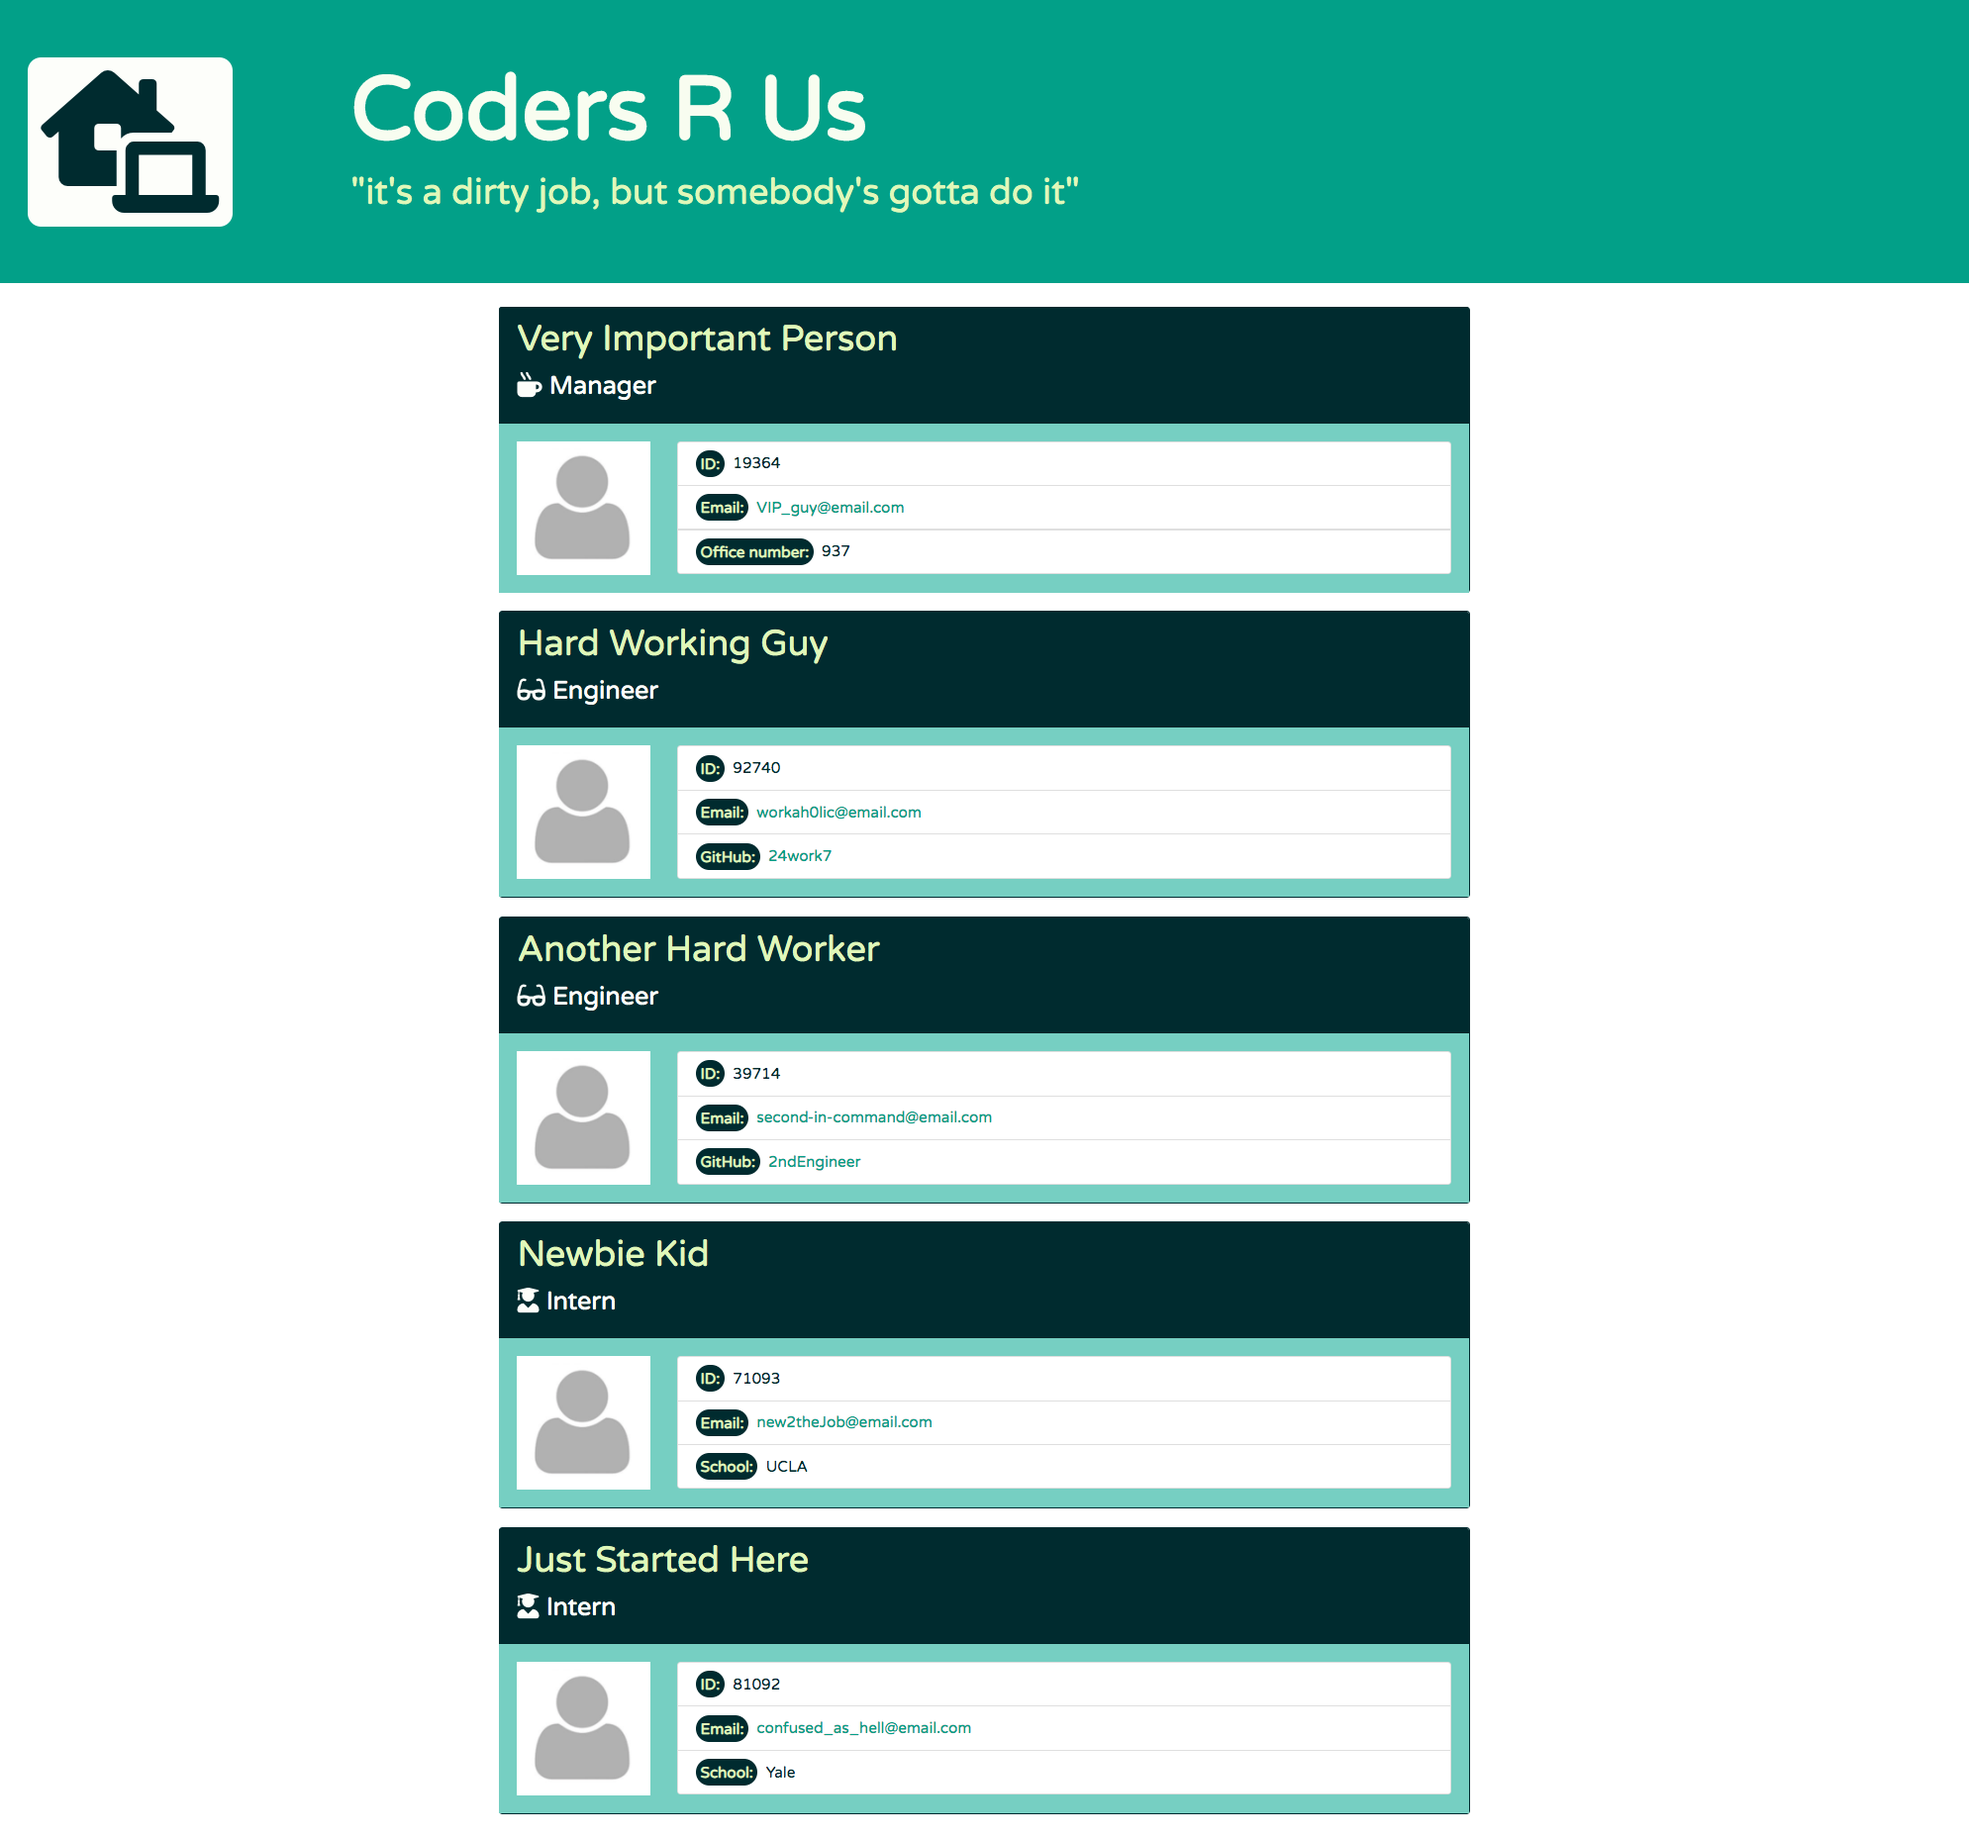
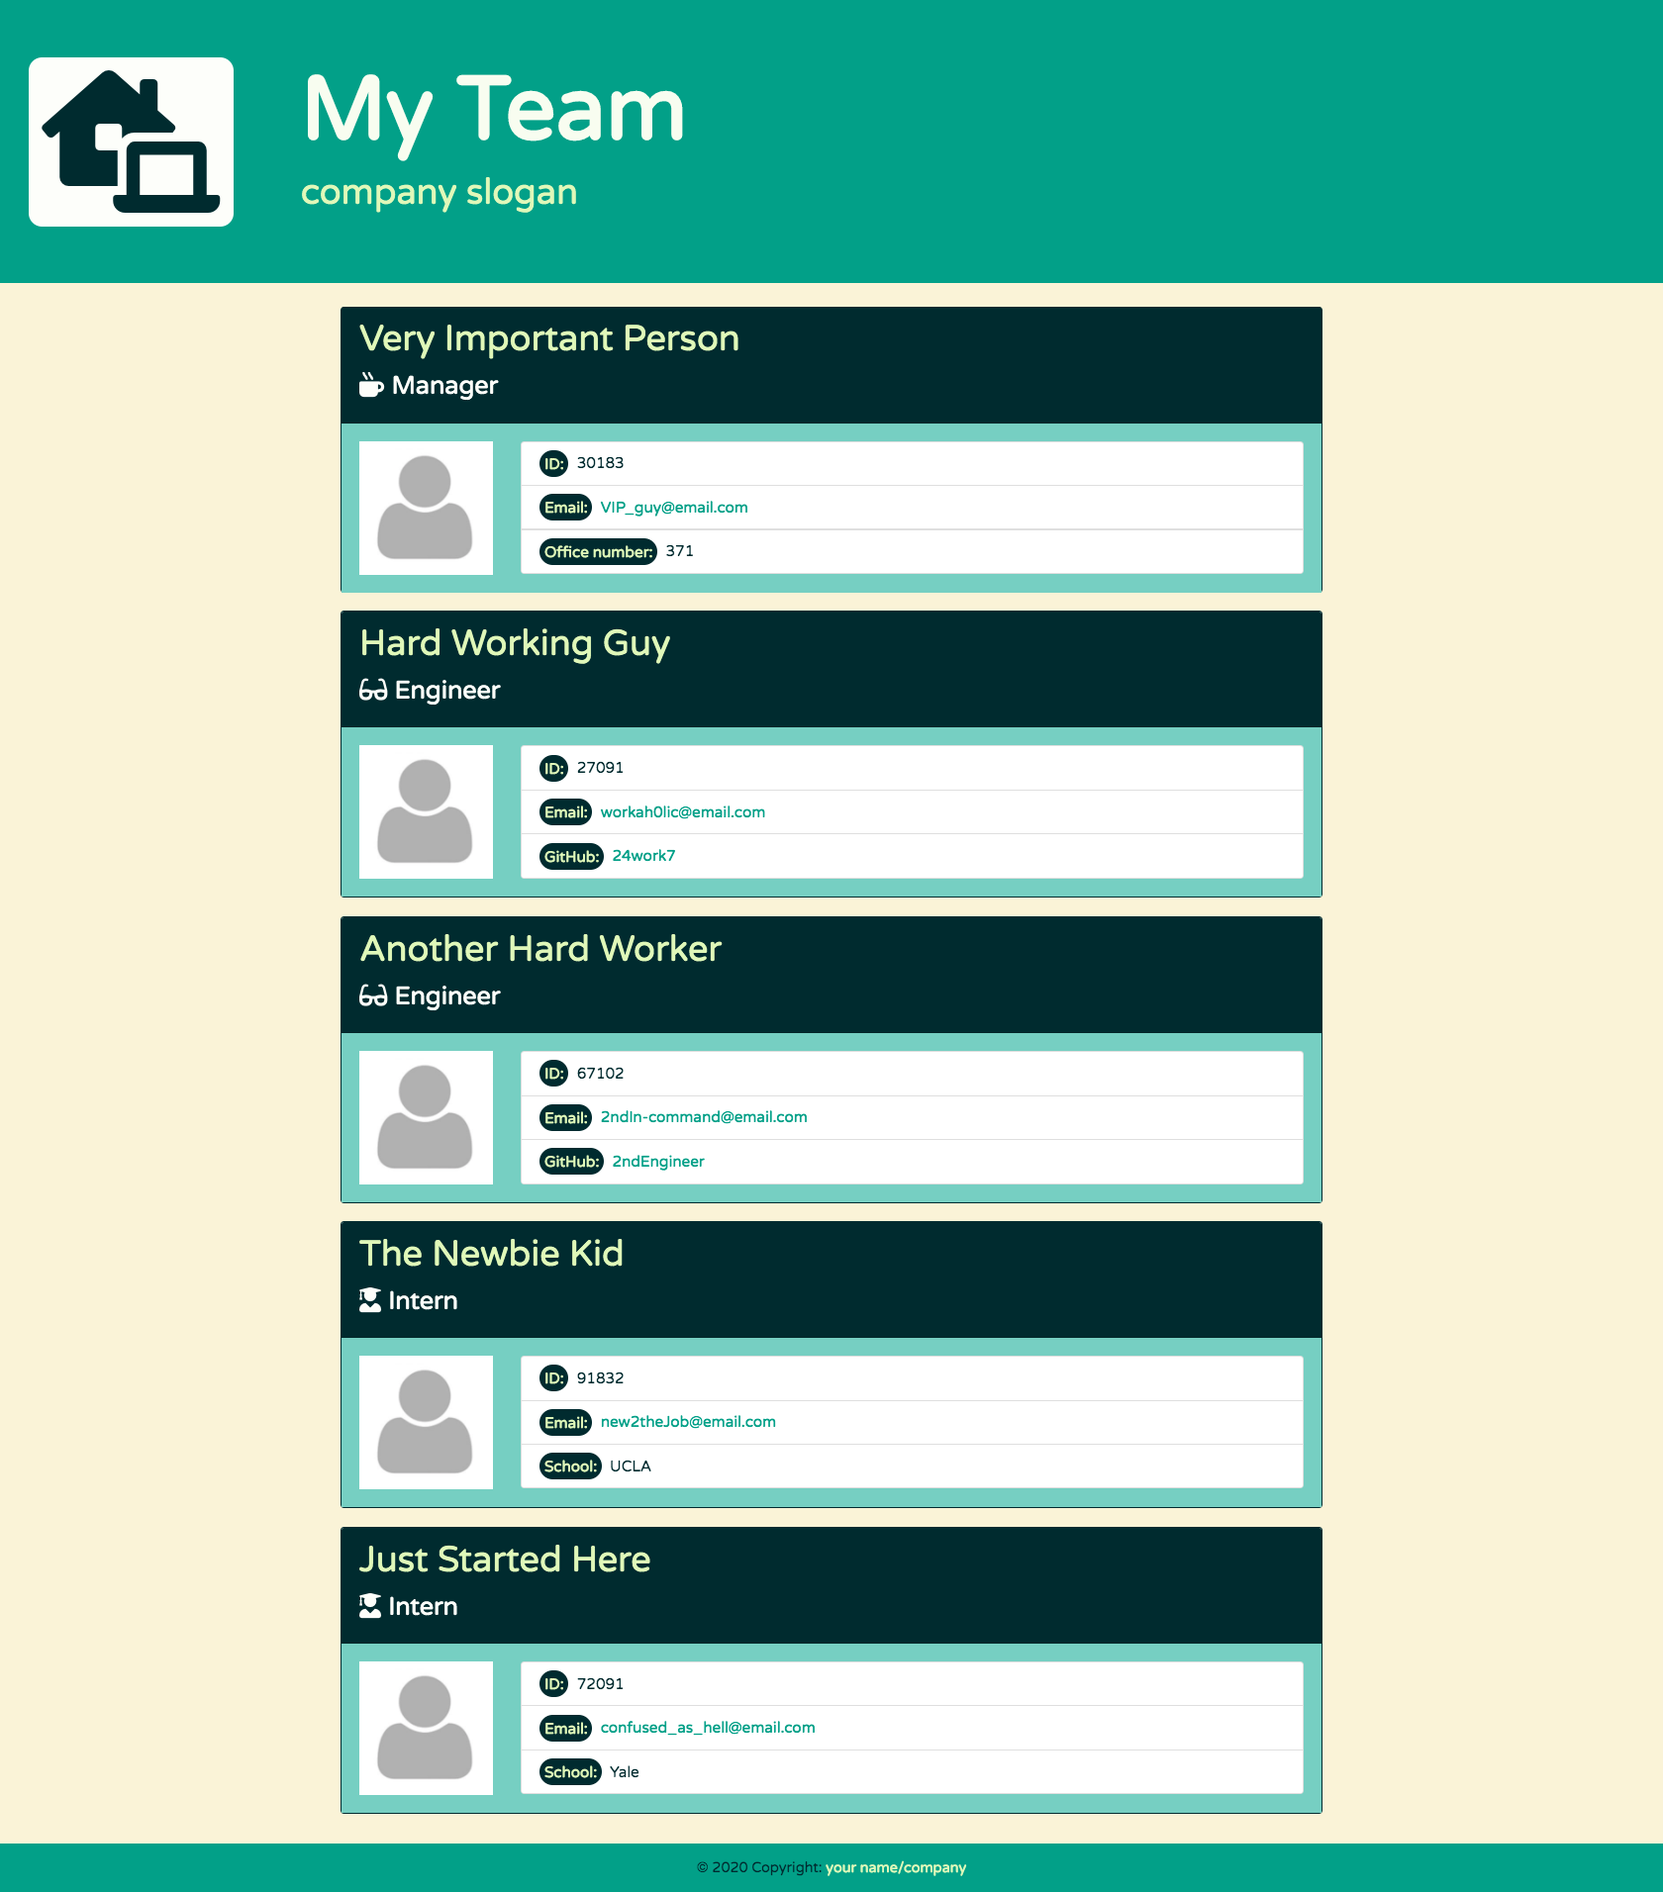
create app demonstration

diff --git a/output/style.css b/output/style.css
@@ -1,6 +1,14 @@
+/*========================================================================*/
+/* ENTIRE PAGE */
+/*========================================================================*/
 body {
     font-family: 'Varela Round', sans-serif;
+    background-color: #fbf5dc;
 }
+
+/*========================================================================*/
+/* PAGE HEADER - JUMBOTRON */
+/*========================================================================*/
 .jumbotron {
     background-color: #00aa93;
     border-radius: 0px;
@@ -20,13 +28,18 @@ body {
     color: #e4f9c1;
     font-size: 40px;
 }
-.container { /* hides the ',' that appears between two cards with the same employee role */
-    color: white;
+
+/*========================================================================*/
+/* MAIN SECTION */
+/*========================================================================*/
+/* hides the ',' that appears between two cards with the same employee role */
+.main-section { 
+    color: #fbf5dc;
     font-size: 1px;
 }
 .card {
     margin: 10px;
-    width: 100%;
+    width: 60%;
     border-color: #003136;
     font-size: 17px;
 }
@@ -60,6 +73,20 @@ a {
     color: #00aa93;
 }
 a:hover {
-    color: #e4f9c1;
+    color: #dfcc7c;
     text-decoration: none;
+}
+
+/*========================================================================*/
+/* PAGE FOOTER */
+/*========================================================================*/
+.page-footer {
+    background-color: #00aa93;
+}
+.footer-copyright {
+    color: #003136;
+}
+.footer-owner {
+    color: #e4f9c1;
+    font-weight: bold;
 }

diff --git a/templates/main.html b/templates/main.html
@@ -5,7 +5,7 @@
     <meta charset="UTF-8" />
     <meta name="viewport" content="width=device-width, initial-scale=1.0" />
     <meta http-equiv="X-UA-Compatible" content="ie=edge" />
-    <title>My Team</title>
+    <title>Meet the Team!</title>
     <link rel="stylesheet" href="https://stackpath.bootstrapcdn.com/bootstrap/4.3.1/css/bootstrap.min.css"
         integrity="sha384-ggOyR0iXCbMQv3Xipma34MD+dH/1fQ784/j6cY/iJTQUOhcWr7x9JvoRxT2MZw1T" crossorigin="anonymous">
     <link rel="stylesheet" href="style.css">
@@ -27,8 +27,14 @@
             </div>
         </div>
     </div>
-    <div class="container">
+    <div class="main-section container-fluid">
         {{ team }}
     </div>
+    <br>
+    <footer class="page-footer font-small">
+        <div class="footer-copyright text-center py-3">© 2020 Copyright:
+            <a class="footer-owner" href=""> your name/company</a>
+        </div>
+    </footer>
 </body>
 </html>

diff --git a/output/team.html b/output/team.html
@@ -1,11 +1,11 @@
 <!DOCTYPE html>
 <html lang="en">
 <head>
-  <meta charset="UTF-8">
-  <meta name="viewport" content="width=device-width, initial-scale=1.0">
-  <title>Generated Employee Profile</title>
+    <meta charset="UTF-8">
+    <meta name="viewport" content="width=device-width, initial-scale=1.0">
+    <title>YOUR PAGE HERE!</title>
 </head>
 <body>
-  <h1>This is where your brand-new CLI-generated Employee Profile will appear!</h1>
+    <h1>Your newly-generated Team Profile Page will appear here!</h1>
 </body>
 </html>

diff --git a/README.md b/README.md
@@ -48,9 +48,17 @@ __step 3:__ When the user finishes answering all of the prompts in the terminal,
 * In the browser, the HTML will look something like this:
 ![generated team profile](/images/app-image.png)
 
+__step 4:__ In the newly-generated `team.html` file, replace the placeholders with the team/company specific information
+
+![company name & slogan](/images/page-header.png)
+
+![footer copyright](/images/page-footer.png)
+
 ---
 
 ## Demonstration:
+Follow this link to view a demonstration of this application:
+[App Demonstration](https://drive.google.com/file/d/1vQpDknigRXMfOTabRuLWVGTo0at9JQA4/view?usp=sharing)
 
 ---
 
